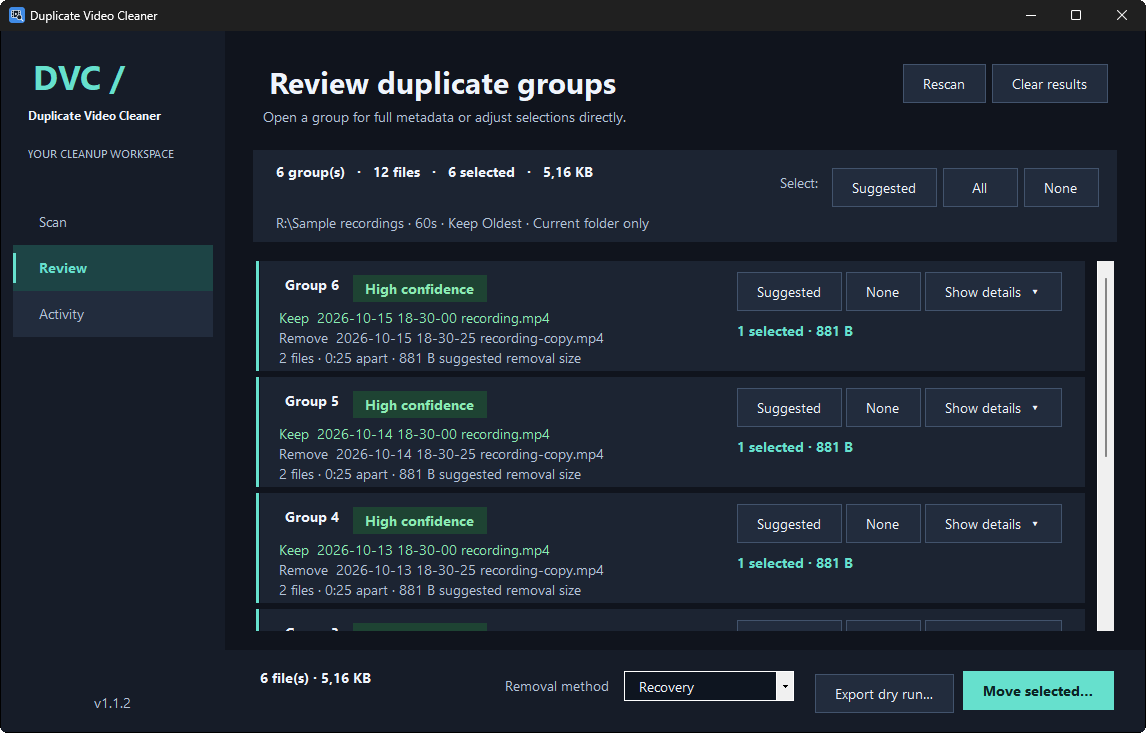
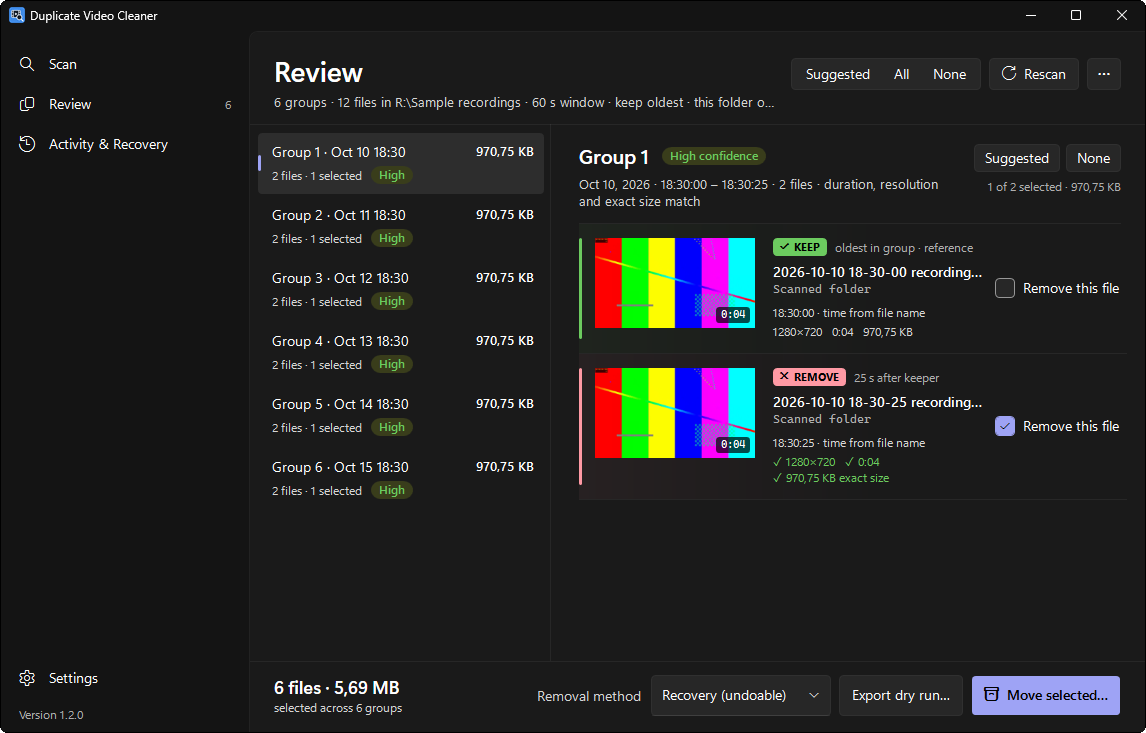
Prepare 1.2.0: docs, screenshots and release qualification
Phase 5 of the UI redesign.

- Version 1.2.0 and a changelog entry for the redesign and thumbnails.
- README: new review steps, themes, shortcuts, thumbnail sandbox and
  cache, and links and commands for 1.2.0; regenerated screenshots
  with the updated capture tool (review-light replaces review-details).
- FFmpeg notice and security audit addendum cover ffmpeg.exe.
- Release qualification upgrades from the published 1.1.3 setup.
- The redesign plan records the as-built decisions.
- The group list no longer draws a focus rectangle around itself.

diff --git a/DuplicateVideoCleaner/Themes/Controls.xaml b/DuplicateVideoCleaner/Themes/Controls.xaml
@@ -481,6 +481,7 @@
 
   <!-- Lists: subtle hover/selection with a 3 px accent indicator, like the navigation pane -->
   <Style TargetType="ListBox">
+    <Setter Property="FocusVisualStyle" Value="{x:Null}" />
     <Setter Property="Background" Value="Transparent" />
     <Setter Property="BorderThickness" Value="0" />
     <Setter Property="Foreground" Value="{DynamicResource TextPrimaryBrush}" />

diff --git a/build/ReadmeScreenshots/Program.cs b/build/ReadmeScreenshots/Program.cs
@@ -38,34 +38,37 @@ try
     using var automation = new UIA3Automation();
     var window = app.GetMainWindow(automation, TimeSpan.FromSeconds(10)) ?? throw new IOException("Application window did not appear.");
     window.Focus();
-    var folder = Find("Video folder").AsTextBox();
-    folder.Text = recordings;
+    Find("Video folder").Patterns.Value.Pattern.SetValue(recordings);
     Find("Scan videos").Focus();
     Capture("scan", window);
     Invoke("Scan videos");
     Wait("Review workspace");
-    Wait("Expand group 1");
-    Capture("review", window);
-    Invoke("Expand group 1");
     Wait("File: 2026-10-10 18-30-25 recording-copy.mp4");
-    Capture("review-details", window);
-    Find("Move selected files to Recovery").AsButton().Click();
-    var dialog = Retry.WhileNull(() => automation.GetDesktop().FindFirstDescendant(cf =>
-        cf.ByName("Confirm deletion").And(cf.ByControlType(ControlType.Window)))?.AsWindow(), TimeSpan.FromSeconds(10)).Result
-        ?? throw new IOException("Confirmation dialog did not appear.");
-    Capture("confirmation", dialog);
-    dialog.FindFirstDescendant(cf => cf.ByName("Cancel"))!.AsButton().Invoke();
-    Wait("Review workspace");
+    Thread.Sleep(3000); // thumbnails
+    Capture("review", window);
+    Invoke("Move selected files to Recovery");
+    Wait("Move 1 file to Recovery?");
+    Capture("confirmation", window);
+    Invoke("Cancel");
+    WaitGone("Move 1 file to Recovery?");
     for (var day = 11; day <= 15; day++) AddPair(day);
     Invoke("Rescan videos");
-    Wait("Expand group 6");
+    if (Retry.WhileNull(() => window.FindAllDescendants().FirstOrDefault(element => element.Name?.StartsWith("Duplicate group 6;", StringComparison.Ordinal) == true),
+        TimeSpan.FromSeconds(10)).Result is null) throw new IOException("The rescan did not list six groups.");
+    Thread.Sleep(2000);
     Capture("review-six-groups", window);
-    window.Focus();
-    Keyboard.Press(VirtualKeyShort.CONTROL);
-    Keyboard.Type(VirtualKeyShort.KEY_3);
-    Keyboard.Release(VirtualKeyShort.CONTROL);
+    Shortcut(VirtualKeyShort.KEY_3);
     Wait("Activity workspace");
     Capture("activity", window);
+    Find("Settings and about").Patterns.Toggle.Pattern.Toggle();
+    var light = Retry.WhileNull(() => automation.GetDesktop().FindFirstDescendant(cf => cf.ByName("Light theme")), TimeSpan.FromSeconds(5)).Result
+        ?? throw new IOException("Theme setting did not appear.");
+    light.Patterns.SelectionItem.Pattern.Select();
+    Keyboard.Press(VirtualKeyShort.ESCAPE);
+    Shortcut(VirtualKeyShort.KEY_2);
+    Wait("Review workspace");
+    Thread.Sleep(1000);
+    Capture("review-light", window);
     if (Directory.EnumerateFiles(recordings, "*.mp4").Count() != 12)
         throw new IOException("Screenshot capture unexpectedly changed the media fixtures.");
     Console.WriteLine($"Captured six application-only screenshots in {output}");
@@ -84,6 +87,18 @@ try
             throw new IOException($"Control did not appear: {name}");
     }
     void Invoke(string name) => Find(name).AsButton().Invoke();
+    void WaitGone(string name)
+    {
+        if (!Retry.WhileTrue(() => window.FindFirstDescendant(cf => cf.ByName(name)) is not null, TimeSpan.FromSeconds(10)).Success)
+            throw new IOException($"Control did not close: {name}");
+    }
+    void Shortcut(VirtualKeyShort key)
+    {
+        window.Focus();
+        Keyboard.Press(VirtualKeyShort.CONTROL);
+        Keyboard.Type(key);
+        Keyboard.Release(VirtualKeyShort.CONTROL);
+    }
     void Capture(string name, Window target)
     {
         target.Focus();

diff --git a/README.md b/README.md
@@ -8,34 +8,36 @@ Duplicate Video Cleaner groups `.mp4` and `.mkv` files by their timestamps. It c
 
 ## Download
 
-Windows x64. Both 1.1.3 packages include .NET and ffprobe.
+Windows x64. Both 1.2.0 packages include .NET, ffprobe and ffmpeg.
 
 | Download | How to use it |
 | --- | --- |
-| [Setup EXE](https://github.com/Softhe/Duplicate-Video-Cleaner/releases/download/v1.1.3/DuplicateVideoCleaner-1.1.3-win-x64-setup.exe) | Run setup, then open the app from the Start menu. Installs for your Windows account without administrator rights. |
-| [Portable ZIP](https://github.com/Softhe/Duplicate-Video-Cleaner/releases/download/v1.1.3/DuplicateVideoCleaner-1.1.3-win-x64-portable.zip) | Extract the entire archive, then run `DuplicateVideoCleaner.exe` from the extracted folder. Keep the bundled `tools` folder beside it. No installation is required. |
+| [Setup EXE](https://github.com/Softhe/Duplicate-Video-Cleaner/releases/download/v1.2.0/DuplicateVideoCleaner-1.2.0-win-x64-setup.exe) | Run setup, then open the app from the Start menu. Installs for your Windows account without administrator rights. |
+| [Portable ZIP](https://github.com/Softhe/Duplicate-Video-Cleaner/releases/download/v1.2.0/DuplicateVideoCleaner-1.2.0-win-x64-portable.zip) | Extract the entire archive, then run `DuplicateVideoCleaner.exe` from the extracted folder. Keep the bundled `tools` folder beside it. No installation is required. |
 
-[Download checksums](https://github.com/Softhe/Duplicate-Video-Cleaner/releases/download/v1.1.3/SHA256SUMS.txt) · [Release notes](https://github.com/Softhe/Duplicate-Video-Cleaner/releases/tag/v1.1.3)
+[Download checksums](https://github.com/Softhe/Duplicate-Video-Cleaner/releases/download/v1.2.0/SHA256SUMS.txt) · [Release notes](https://github.com/Softhe/Duplicate-Video-Cleaner/releases/tag/v1.2.0)
 
-The published setup is unsigned. Preferences are saved in your Windows user profile. Uninstall through Windows Installed apps. Recovery media stays with its source folder and is not removed by uninstall.
+The published setup is unsigned. Preferences are saved in your Windows user profile. Uninstall through Windows Installed apps; it removes the thumbnail cache but keeps preferences. Recovery media stays with its source folder and is not removed by uninstall.
 
 ## Review your videos
 
-1. In **Scan**, choose a folder, set the time window, and choose whether to keep the oldest or newest file. Include subfolders if needed, and turn on **Protect clips without a date in the name** if you keep renamed favourites beside their originals. Then press **Scan videos**.
-2. In **Review**, expand each group and compare its files. Check paths, timestamps, duration, resolution, and size. Use **Suggested**, **All**, or **None** to change the selection.
-3. Use **Export dry run** to save CSV and text reports before making changes.
-4. Choose the removal method, press **Move selected**, and review the confirmation. Recovery is the default; permanent deletion is also available. The confirmation defaults to Cancel.
+1. In **Scan**, drop a folder on the drop area, paste a path, pick a recent folder, or press **Browse…**. Set the time window and whether to keep the oldest or newest file. Include subfolders if needed, and turn on **Protect clips without a date in the name** if you keep renamed favourites beside their originals. Then press **Scan videos**.
+2. In **Review**, pick a group in the list to compare its files side by side. Each file shows a thumbnail, its role (**KEEP**, **REMOVE** or **PROTECTED**), timestamp and source, and its resolution, duration and size. On files compared with a keeper, ✓ marks a match and ≠ a difference. Use **Suggested**, **All** or **None** for every group, or the buttons above the files for one group, and tick **Remove this file** to change single files.
+3. Use **Export dry run…** to save CSV and text reports before making changes.
+4. Choose the removal method, press **Move selected…**, and review the confirmation. It lists every selected file and warns when every copy of a recording is selected. Recovery is the default; permanent deletion is also available. Cancel is the default button, so Enter and Esc never confirm.
 
 ![Review workspace](docs/screenshots/review.png)
 
 <details>
-<summary>See group details and the confirmation dialog</summary>
+<summary>See the light theme and the confirmation dialog</summary>
 
-![Expanded group details](docs/screenshots/review-details.png)
+![Review in the light theme](docs/screenshots/review-light.png)
 
 ![Removal confirmation](docs/screenshots/confirmation.png)
 
 </details>
+
+The app starts in the dark theme. Open **Settings** at the bottom of the navigation pane to switch to **Light**, or **System** to follow the Windows app mode. Settings also turns video thumbnails off. Keyboard shortcuts: Ctrl+1, Ctrl+2 and Ctrl+3 switch pages; Alt+S, Alt+A and Alt+N select suggested, all or no files in Review.
 
 ## What the suggestions mean
 
@@ -77,9 +79,11 @@ Confidence is advisory. Even a High match does not establish that two files cont
 
 ## Safety and activity
 
-Before removing a file, the app checks its size, creation time, last-write time, and Windows file identity against the scan. Changed files, missing scan snapshots, and files that are symbolic links or reparse points are rejected. Both removal modes validate the same open file object and reject active writers. Links found inside the scanned folder are never followed. The chosen folder, or a folder above it, may be a junction, directory symbolic link, or mounted volume. The app then holds both the link and the folders it resolves to open, so neither can be replaced during an operation. Recovery performs a same-volume move into .DuplicateVideoCleaner-Recovery beside each source file, with a durable record of its original location. Open Activity > Recovery to restore files without overwriting existing paths, or permanently delete them. Select several entries, or use **Select all**, to restore or delete them together; the list shows each file's size and the total. Recovery does not free storage until permanent deletion. Keep recovery folders at their original locations. On FAT32 and exFAT drives, such as SD cards and many USB sticks, Windows file IDs change when a file moves between folders. The app therefore records each file's new identity once it is in Recovery, and restore and permanent deletion require that identity on every drive. On FAT drives they also allow the one-hour timestamp shift that FAT shows after a daylight saving change.
+Before removing a file, the app checks its size, creation time, last-write time, and Windows file identity against the scan. Changed files, missing scan snapshots, and files that are symbolic links or reparse points are rejected. Both removal modes validate the same open file object and reject active writers. Links found inside the scanned folder are never followed. The chosen folder, or a folder above it, may be a junction, directory symbolic link, or mounted volume. The app then holds both the link and the folders it resolves to open, so neither can be replaced during an operation. Recovery performs a same-volume move into .DuplicateVideoCleaner-Recovery beside each source file, with a durable record of its original location. Open **Activity & Recovery** to restore files without overwriting existing paths, or permanently delete them. Select several entries, or use **Select all**, to restore or delete them together; the list shows each file's size and the total. Recovery does not free storage until permanent deletion. Keep recovery folders at their original locations. On FAT32 and exFAT drives, such as SD cards and many USB sticks, Windows file IDs change when a file moves between folders. The app therefore records each file's new identity once it is in Recovery, and restore and permanent deletion require that identity on every drive. On FAT drives they also allow the one-hour timestamp shift that FAT shows after a daylight saving change.
 
 Metadata probes run in a zero-capability Windows AppContainer with a one-process job, memory and CPU limits, bounded output, and a timeout. The broker opens each video read-only, validates it against the scan, and passes only that open handle to ffprobe, which reads it through its seekable `fd:` input. The AppContainer cannot open the original path or any other user file, and original media ACLs are unchanged. No media is copied, so scans need no temporary disk space for videos. Sandbox setup failures stop metadata probing without an unrestricted fallback. CSV exports neutralize formula prefixes before spreadsheet programs open them.
+
+Thumbnails use the same sandbox. ffmpeg receives the validated read-only handle and writes one 320×180 frame of raw pixels to standard output; the app accepts exactly that many bytes and parses no media or image format itself. Files that changed since the scan, failed decodes, oversized output and timeouts leave a placeholder. Only files on screen are read, two at a time, and thumbnail work pauses during scans and removals. Frames are cached in `%LOCALAPPDATA%\DuplicateVideoCleaner\Thumbnails`, keyed by each file's scan snapshot and limited to 96 MB.
 
 Removal intent and outcome are recorded for each file in `DuplicateCleanupLog.txt` in the scanned folder. If the audit log cannot be written, the app stops further removals and keeps the results of completed removals accurate. After removal, the remaining groups recompute their suggested keeper and confidence.
 
@@ -87,11 +91,11 @@ Results retain the folder and rules used for the scan. Editing the Scan controls
 
 Metadata is validated against the original scan snapshot before probing or using cached results. Changed files require a rescan. Fully cached batches skip sandbox setup. Up to four parser processes run concurrently, depending on the processor count, and each has a 15-second deadline. The cache keeps up to 65,536 results for repeat scans. Scan shows processed files and elapsed time. Activity records enumeration, setup, parsing and cache measurements. Scanning and metadata reading accept files that another program still has open for writing, such as a recording in progress; removal still rejects them. Individual blocked filesystem calls may delay cancellation. Cleanup problems appear in Activity while successful metadata remains available.
 
-Scan diagnostics, report writes and queued preference saves run in the background. Pending preference snapshots coalesce, and closing waits asynchronously for the latest save. Cancel export keeps any completed reports and removes incomplete temporary files. Closing Recovery during discovery requests cancellation. During restore or permanent deletion, the dialog closes after the file in progress finishes. Individual filesystem calls on slow storage may take time to return before cancellation completes. Recovery rows are created on demand. **Archive completed history** moves verified completed records older than 30 days into `.completed-history` after confirmation. It deletes neither metadata nor media. Incomplete, active, unreadable and unexpected entries stay in place. Normal discovery skips archived history; **Inspect archived payloads** explicitly searches for unexpected archived media.
+Scan diagnostics, report writes and queued preference saves run in the background. Pending preference snapshots coalesce, and closing waits asynchronously for the latest save. Cancel export keeps any completed reports and removes incomplete temporary files. Closing the app while Recovery is being read cancels the discovery. During restore or permanent deletion, the app closes after the file in progress finishes. Individual filesystem calls on slow storage may take time to return before cancellation completes. Recovery rows are created on demand. **Archive completed history** moves verified completed records older than 30 days into `.completed-history` after confirmation. It deletes neither metadata nor media. Incomplete, active, unreadable and unexpected entries stay in place. Normal discovery skips archived history; **Inspect archived payloads** explicitly searches for unexpected archived media.
 
-Startup checks for abandoned metadata sandbox folders (staged ffprobe tools) at least 24 hours old. Only marked directories owned by the current Windows account, with no live owner or marker lease, qualify. Directory names, AppContainer profile names and ownership markers must agree. Unmarked, malformed, recent, contested and linked locations remain untouched. Cleanup warnings appear in Activity. The app does not broadly delete temporary folders or unrelated AppContainer profiles.
+Startup checks for abandoned sandbox folders (staged ffprobe or ffmpeg tools) at least 24 hours old. Only marked directories owned by the current Windows account, with no live owner or marker lease, qualify. Directory names, AppContainer profile names and ownership markers must agree. Unmarked, malformed, recent, contested and linked locations remain untouched. Cleanup warnings appear in Activity. The app does not broadly delete temporary folders or unrelated AppContainer profiles.
 
-The **Activity** workspace shows session events, including scan entries that could not be read.
+The **Activity & Recovery** page lists the files in Recovery for the scanned folder beside this session's activity, including scan entries that could not be read.
 
 ![Activity workspace](docs/screenshots/activity.png)
 
@@ -112,20 +116,20 @@ The reviewed FFmpeg version, dated asset, expected SHA256, source revision, and 
 
 ```powershell
 ./build/Test-BuildScripts.ps1 -VerifyDependency
-./build/Test-InstalledSetup.ps1 -SetupPath ./release/DuplicateVideoCleaner-1.1.3-win-x64-setup.exe -PreviousSetupPath C:/path/to/1.1.2-setup.exe -RequireVirtualMachine -RunUiTests -EvidencePath ./release/installer-acceptance.json
-./build/Test-PortablePackage.ps1 -ArchivePath ./release/DuplicateVideoCleaner-1.1.3-win-x64-portable.zip -RequireVirtualMachine -RunUiTests -EvidencePath ./release/portable-acceptance.json
+./build/Test-InstalledSetup.ps1 -SetupPath ./release/DuplicateVideoCleaner-1.2.0-win-x64-setup.exe -PreviousSetupPath C:/path/to/1.1.3-setup.exe -RequireVirtualMachine -RunUiTests -EvidencePath ./release/installer-acceptance.json
+./build/Test-PortablePackage.ps1 -ArchivePath ./release/DuplicateVideoCleaner-1.2.0-win-x64-portable.zip -RequireVirtualMachine -RunUiTests -EvidencePath ./release/portable-acceptance.json
 ```
 
-The setup check refuses to run if this app is already installed. It uses a temporary install directory and isolated preferences, verifies the payload and bundled ffprobe, launches the app, and checks uninstall cleanup. Acceptance preserves its evidence. Public release requires VM acceptance of the exact setup checksum, upgrade, preferences, installed UI, and uninstall.
+The setup check refuses to run if this app is already installed. It uses a temporary install directory and isolated preferences, verifies the payload, bundled ffprobe and ffmpeg, launches the app, and checks uninstall cleanup. Acceptance preserves its evidence. Public release requires VM acceptance of the exact setup checksum, upgrade, preferences, installed UI, and uninstall.
 
-Portable qualification extracts the exact ZIP into a temporary directory, verifies its payload checksums and bundled documentation, launches ffprobe and the application with isolated preferences, and exercises the extracted application's sandboxed video-review and export flow. Release publication requires both packages to pass qualification. The manual `replace_release` workflow option is restricted to `main`; after successful qualification it replaces the existing release and updates its version tag to the qualified source commit.
+Portable qualification extracts the exact ZIP into a temporary directory, verifies its payload checksums and bundled documentation, launches ffprobe, ffmpeg and the application with isolated preferences, and exercises the extracted application's sandboxed video-review and export flow. Release publication requires both packages to pass qualification. The manual `replace_release` workflow option is restricted to `main`; after successful qualification it replaces the existing release and updates its version tag to the qualified source commit.
 
 Qualification also launches the previous installed application to save non-default settings before upgrading. It independently checks that both applications rewrite the settings fixture and that the expected values remain intact. It checks installed versions and requires the exact candidate app to scan the synthetic video fixture with its bundled ffprobe inside the production sandbox, show duration/resolution and High advisory confidence, and export CSV and text through the UI. The installed-video test requires `DVC_TEST_APP_PATH`; normal source-only test runs report it as skipped. Release qualification supplies that path and requires a fresh success record. Pull requests run the release validation workflow without publishing. CI retains qualification logs, test results and acceptance records separately from the public setup EXE, portable ZIP, and checksum.
 
 To test real video metadata through the UI, use a valid MP4 fixture. Run this in a separate PowerShell session so test overrides end with that session:
 
 ```powershell
-$env:DVC_TEST_FFPROBE = (Resolve-Path release/DuplicateVideoCleaner-1.1.3-win-x64-portable/tools/ffprobe.exe).Path
+$env:DVC_TEST_FFPROBE = (Resolve-Path release/DuplicateVideoCleaner-1.2.0-win-x64-portable/tools/ffprobe.exe).Path
 $env:DVC_TEST_MEDIA = (Resolve-Path C:/path/to/sample.mp4).Path
 dotnet test DuplicateVideoCleaner.UiTests/DuplicateVideoCleaner.UiTests.csproj -c Release --filter MetadataSuccessReachesReviewConfidenceAndExport
 Remove-Item Env:DVC_TEST_FFPROBE, Env:DVC_TEST_MEDIA
@@ -139,9 +143,9 @@ dotnet run --project build/ReadmeScreenshots -c Release -- <packaged-app.exe> <s
 
 The tool captures the app with PrintWindow, without including the desktop background.
 
-The core checks cover scanning, settings, sandbox isolation, metadata, confidence, export, object-bound removal and Recovery. Review uses 25 groups per page and 25 file rows per detail page; selection and export include all pages. Activity keeps the latest 200 entries. The UI checks cover navigation, selection, scan cancellation, confirmation defaults, and review/export behavior.
+The core checks cover scanning, settings, sandbox isolation, metadata, confidence, export, object-bound removal and Recovery. Review lists every group and file in virtualised lists, and builds file rows only for the group on screen. Activity keeps the latest 200 entries. The UI checks cover navigation, selection, scan cancellation, confirmation defaults, and review/export behavior.
 
-Selection uses indexed per-file and per-group totals, so toggling one file does not traverse the entire library. Reproduce the synthetic metadata cache and selection measurements with `./build/Measure-Performance.ps1 -FfprobePath ./release/DuplicateVideoCleaner-1.1.3-win-x64-portable/tools/ffprobe.exe`. See [performance measurements and their limits](docs/PERFORMANCE.md). The measurements use generated video and in-memory records, not private recordings or a claim about real-library throughput.
+Selection uses indexed per-file and per-group totals, so toggling one file does not traverse the entire library. Reproduce the synthetic metadata cache and selection measurements with `./build/Measure-Performance.ps1 -FfprobePath ./release/DuplicateVideoCleaner-1.2.0-win-x64-portable/tools/ffprobe.exe`. See [performance measurements and their limits](docs/PERFORMANCE.md). The measurements use generated video and in-memory records, not private recordings or a claim about real-library throughput.
 
 </details>
 
@@ -149,4 +153,4 @@ Selection uses indexed per-file and per-group totals, so toggling one file does 
 
 Duplicate Video Cleaner is available under the [MIT license](LICENSE.txt).
 
-The setup EXE and portable ZIP include FFmpeg's `ffprobe` and shared libraries under LGPL version 3 or later (the build is configured with `--enable-version3`). The app runs ffprobe as a separate process and does not modify it. See [FFmpeg notice and corresponding source](FFMPEG-NOTICE.md).
+The setup EXE and portable ZIP include FFmpeg's `ffprobe`, `ffmpeg` and shared libraries under LGPL version 3 or later (the build is configured with `--enable-version3`). The app runs them as separate processes and does not modify them. See [FFmpeg notice and corresponding source](FFMPEG-NOTICE.md).

diff --git a/docs/redesign/PLAN.md b/docs/redesign/PLAN.md
@@ -13,7 +13,7 @@ Goal: replace the whole visual layer. Scanner, metadata probe, sandbox, removal,
 | UI tests (FlaUI/UIA) | Kept: same accessible names via `AutomationProperties.Name` | Kept, but more UIA differences | Kept |
 | Effort | Medium: new XAML views, reuse all logic | High: new framework, unpackaged-app quirks (pickers, drag and drop) | High, and the result stays fragile |
 
-WPF keeps the release pipeline (`build/BuildRelease.ps1` publishes `PublishSingleFile=true`) and adds no third-party code, which matters given the security audit. The few Windows 11 controls WPF lacks (navigation pane, toggle switch, content dialog) are small styled controls built in the project. `ThemeMode` is still flagged experimental (`WPF0001`), so the build suppresses that one diagnostic. Our own colour resources (one dictionary per theme) override the defaults, so the look does not depend on what the experimental API ships.
+WPF keeps the release pipeline (`build/BuildRelease.ps1` publishes `PublishSingleFile=true`) and adds no third-party code, which matters given the security audit. The few Windows 11 controls WPF lacks (navigation pane, toggle switch, content dialog) are small styled controls built in the project. **As built:** the app does not use the experimental `ThemeMode` API. Every control it uses has its own template in `Themes/Controls.xaml`, coloured from `Themes/Dark.xaml` or `Themes/Light.xaml`, so the look is exact in both themes and does not depend on an experimental API. The window keeps the native title bar, coloured through DWM, so snap layouts and system menus keep working.
 
 ## 2. Style rules (v3)
 
@@ -128,7 +128,7 @@ Each phase ends green: `DuplicateVideoCleaner.Tests` and `DuplicateVideoCleaner.
 
 - **Regressions in safety behaviour.** The removal and protection rules are the product. Mitigation: Phase 1 moves logic without changing it and adds tests before any XAML exists.
 - **UI test churn.** FlaUI finds controls by name, not by framework, so most tests survive if names are kept. Where WPF exposes a different control type (for example a list item instead of a panel), update those tests in the same commit as the page.
-- **Fluent theme API changes.** `ThemeMode` is experimental. Our own colour resources limit how much a future .NET change can move the look.
+- **Fluent theme API changes.** Avoided: the app uses its own control templates instead of the experimental `ThemeMode`.
 - **Performance with large libraries.** `LargeLibraryTests` and `docs/PERFORMANCE.md` set the bar. Virtualisation should improve on today's paging; measure it with `build/Measure-Performance.ps1`.
 
 - **Thumbnail decoding of untrusted media.** It runs only inside the AppContainer sandbox with strict output limits. Include it in the security audit for 1.2.0.
@@ -139,3 +139,19 @@ Each phase ends green: `DuplicateVideoCleaner.Tests` and `DuplicateVideoCleaner.
 - **Framework:** WPF on .NET 10 with the built-in Fluent theme.
 - **Thumbnails:** enabled and bundled in 1.2.0 (sandboxed ffmpeg).
 - **Old interface:** replaced outright in 1.2.0, with no WinForms fallback.
+
+## 7. Status
+
+All five phases are implemented on this branch:
+
+1. Core extraction with workflow tests.
+2. WPF shell, dark and light themes, theme setting.
+3. Scan, Review, confirmation dialog, Activity & Recovery.
+4. Sandboxed thumbnails, cache, packaging of `ffmpeg.exe`.
+5. Version 1.2.0, changelog, README and screenshots, release qualification against the published 1.1.3 setup.
+
+The mockups are the visual reference. Deliberate differences in the build:
+
+- Keepers keep a **Remove this file** checkbox, because Select All and manual overrides can select them.
+- Recovery has no duration column (Recovery records do not store metadata).
+- Thumbnails are 320×180 frames cropped to 16:9.

diff --git a/CHANGELOG.md b/CHANGELOG.md
@@ -1,5 +1,27 @@
 # Changelog
 
+## 1.2.0 - Unreleased
+
+### Redesigned interface
+
+- Replaced the whole interface with a Windows 11 style design: a navigation pane, and Scan, Review and Activity & Recovery pages. Scanning, protection, removal and Recovery rules are unchanged.
+- Dark theme by default, a light theme, and a **System** option that follows the Windows app mode. Settings files from earlier versions open in the dark theme.
+- Scan: a drop area with a path box that remembers the last five folders, the grouping rules in one card, and a progress bar with the current file while metadata is read.
+- Review: a group list beside the selected group's files. Each file shows its role (KEEP, REMOVE or PROTECTED), its timestamp and source, and its resolution, duration and size, with ✓ for a match and ≠ for a difference from the file it is compared with. Lists are virtualised instead of paged.
+- Confirmation is an in-window dialog. Cancel is the focused default; Enter and Esc never confirm. It lists every selected file, names the Recovery folder and warns when every copy of a recording is selected.
+- Recovery moved from a separate window into the Activity & Recovery page, next to the session activity. Permanent deletion asks first, and restores and deletions appear in the activity log.
+
+### Video thumbnails
+
+- Review shows one frame per file. ffmpeg runs in the same AppContainer sandbox as ffprobe, reads only the validated read-only handle, and returns a fixed-size raw frame, so the app parses no media or image format itself. Changed files, failed decodes and timeouts keep a placeholder.
+- Thumbnails load only for files on screen, pause during scans and removals, and are cached in `%LOCALAPPDATA%\DuplicateVideoCleaner\Thumbnails` (up to 96 MB). Uninstall removes the cache. Settings can turn thumbnails off.
+- Both packages now include `ffmpeg.exe` from the same pinned LGPL build (about 0.5 MB, as it shares ffprobe's libraries).
+
+### Internal
+
+- Moved scanning, review, removal, Recovery and settings into `DuplicateVideoCleaner.Core` with new workflow tests, and rebuilt the app on WPF without third-party UI libraries. The self-contained app is about 24 MB larger than 1.1.3 because it includes the WPF runtime.
+- UI tests now cover the view models on a WPF dispatcher and drive the packaged app through UI Automation. Release qualification upgrades from the published 1.1.3 setup.
+
 ## 1.1.3 - 2026-11-23
 
 ### Fixes for regressions in 1.1.2

diff --git a/FFMPEG-NOTICE.md b/FFMPEG-NOTICE.md
@@ -1,6 +1,6 @@
 # FFmpeg notice
 
-This product distributes `ffprobe` and its required shared libraries from FFmpeg under the GNU Lesser General Public License, version 3 or later. The build is configured with `--enable-version3`, which applies LGPL version 3 to the libraries.
+This product distributes `ffprobe`, `ffmpeg` and their required shared libraries from FFmpeg under the GNU Lesser General Public License, version 3 or later. The build is configured with `--enable-version3`, which applies LGPL version 3 to the libraries.
 
 - Upstream: https://ffmpeg.org/
 - Exact FFmpeg source revision: https://github.com/FFmpeg/FFmpeg/tree/660b5aa7dbce1f95cb04b3c7b8e94d79f893d15d
@@ -11,6 +11,6 @@ This product distributes `ffprobe` and its required shared libraries from FFmpeg
 - Variant: Windows x64, LGPL shared; GPL/nonfree dependencies disabled.
 - Build system and dependency recipes: https://github.com/BtbN/FFmpeg-Builds/tree/7f2a6b1050d302144de8366afa37a75e46f326aa
 
-The exact configure line is reported by `tools\ffprobe.exe -version`. The included `FFMPEG-LICENSE.txt` contains the distributor's license text. `FFMPEG-BUILD.json` records the reviewed dependency pin, and `SHA256SUMS.txt` lists the installed payload files. Download the corresponding source revision above and consult the build system for the build configuration and dependency recipes.
+The exact configure line is reported by `tools\ffprobe.exe -version` and `tools\ffmpeg.exe -version`. The included `FFMPEG-LICENSE.txt` contains the distributor's license text. `FFMPEG-BUILD.json` records the reviewed dependency pin, and `SHA256SUMS.txt` lists the installed payload files. Download the corresponding source revision above and consult the build system for the build configuration and dependency recipes.
 
-Duplicate Video Cleaner launches ffprobe as a separate process and does not modify FFmpeg. Its shared libraries remain separate files in `tools` and may be replaced with compatible LGPL builds.
+Duplicate Video Cleaner launches ffprobe (metadata) and ffmpeg (one thumbnail frame per video) as separate processes and does not modify FFmpeg. The shared libraries remain separate files in `tools` and may be replaced with compatible LGPL builds.

diff --git a/SECURITY-AUDIT.md b/SECURITY-AUDIT.md
@@ -59,3 +59,14 @@ dotnet test DuplicateVideoCleaner.UiTests -c Release
 dotnet list DuplicateVideoCleaner.slnx package --vulnerable --include-transitive --source https://api.nuget.org/v3/index.json
 git diff --check
 ```
+
+## 1.2.0 addendum: thumbnails and the WPF interface
+
+This addendum records the changes in 1.2.0 that affect the attack surface. It is not a new audit.
+
+- **New parser invocation.** `ffmpeg.exe` decodes one frame per video. It runs through the same `WindowsProbeSandbox` as ffprobe: a zero-capability AppContainer, a one-process job with memory and CPU limits, only the validated read-only media handle as standard input (`-protocol_whitelist fd -i fd:`), and a 15-second deadline. Files that changed since the scan are rejected before launch.
+- **No in-process decoding of sandbox output.** ffmpeg writes exactly 320×180×4 bytes of raw BGRA to stdout. The broker rejects shorter or longer output and wraps the buffer with `BitmapSource.Create`; no media, PNG or other image parser runs in the app process on data from the sandbox. Diagnostics are bounded to 64 KiB.
+- **Cache.** Frames are deflated into `%LOCALAPPDATA%\DuplicateVideoCleaner\Thumbnails`, keyed by a SHA-256 of the scan snapshot (path, size, times, file ID). Entries are only ever read back as exactly one frame-sized buffer; damaged entries are ignored. The folder is limited to 96 MB and removed on uninstall.
+- **Sandbox lifetime.** The thumbnail sandbox is released after 20 idle seconds and on exit. A crash leaves it to the existing abandoned-sandbox cleanup.
+- **Interface.** The WPF interface adds no third-party packages. Destructive confirmations keep Cancel as the focused default and bind Enter and Esc to it.
+- **Not done.** No fuzzing of ffmpeg's decoders and no fresh review of FFmpeg vulnerabilities beyond the pinned build. As with ffprobe, the sandbox is the mitigation for decoder bugs.

diff --git a/docs/PERFORMANCE.md b/docs/PERFORMANCE.md
@@ -5,7 +5,7 @@ The application records per-scan measurements in Activity and displays the metad
 ## Reproduce a synthetic comparison
 
 ```powershell
-./build/Measure-Performance.ps1 -FfprobePath ./release/DuplicateVideoCleaner-1.1.3-win-x64-portable/tools/ffprobe.exe -OutputPath ./validation/performance.json
+./build/Measure-Performance.ps1 -FfprobePath ./release/DuplicateVideoCleaner-1.2.0-win-x64-portable/tools/ffprobe.exe -OutputPath ./validation/performance.json
 ```
 
 This builds the existing test runner. It creates four copies of the checked-in one-second black video with valid 8 MiB MP4 free atoms, scans them, and uses the supplied native ffprobe inside the production sandbox. It compares cold and warm metadata batches. A second comparison performs the same 1,000 selection changes over 10,000 in-memory candidates using full traversal and indexed counters. Both methods must produce identical final totals.
